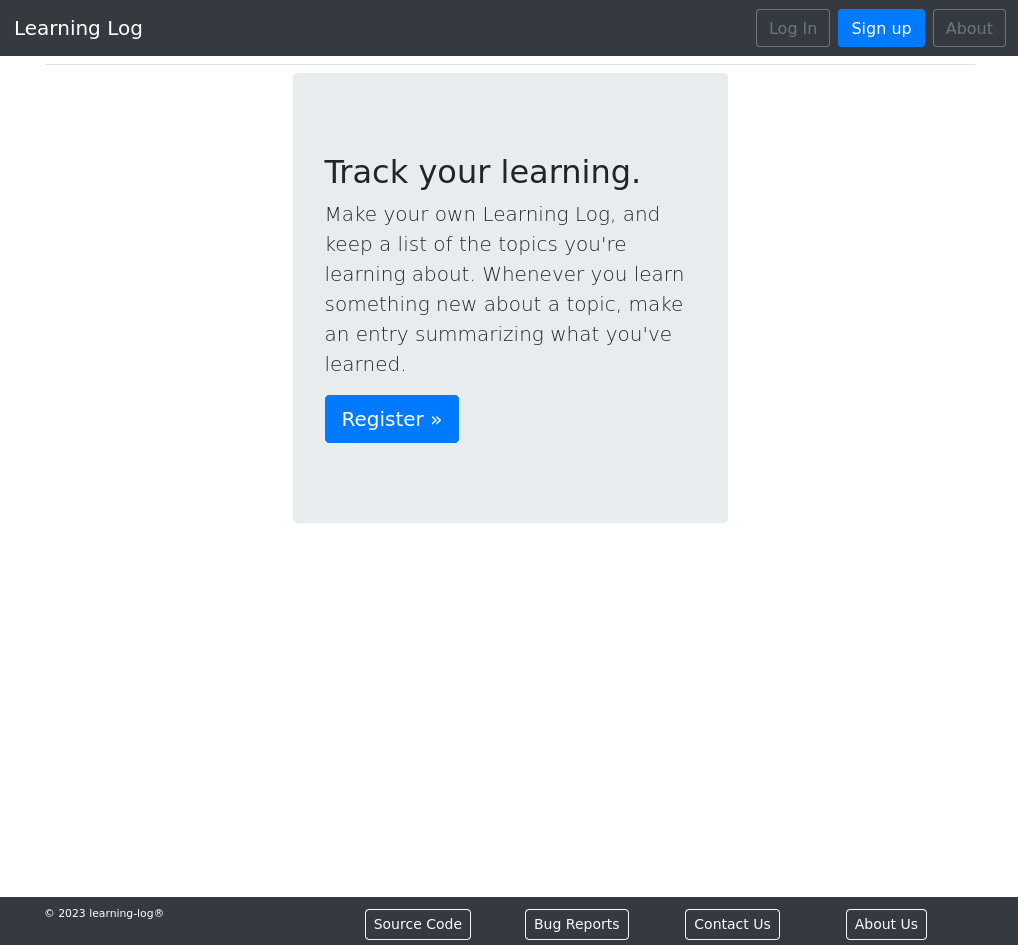
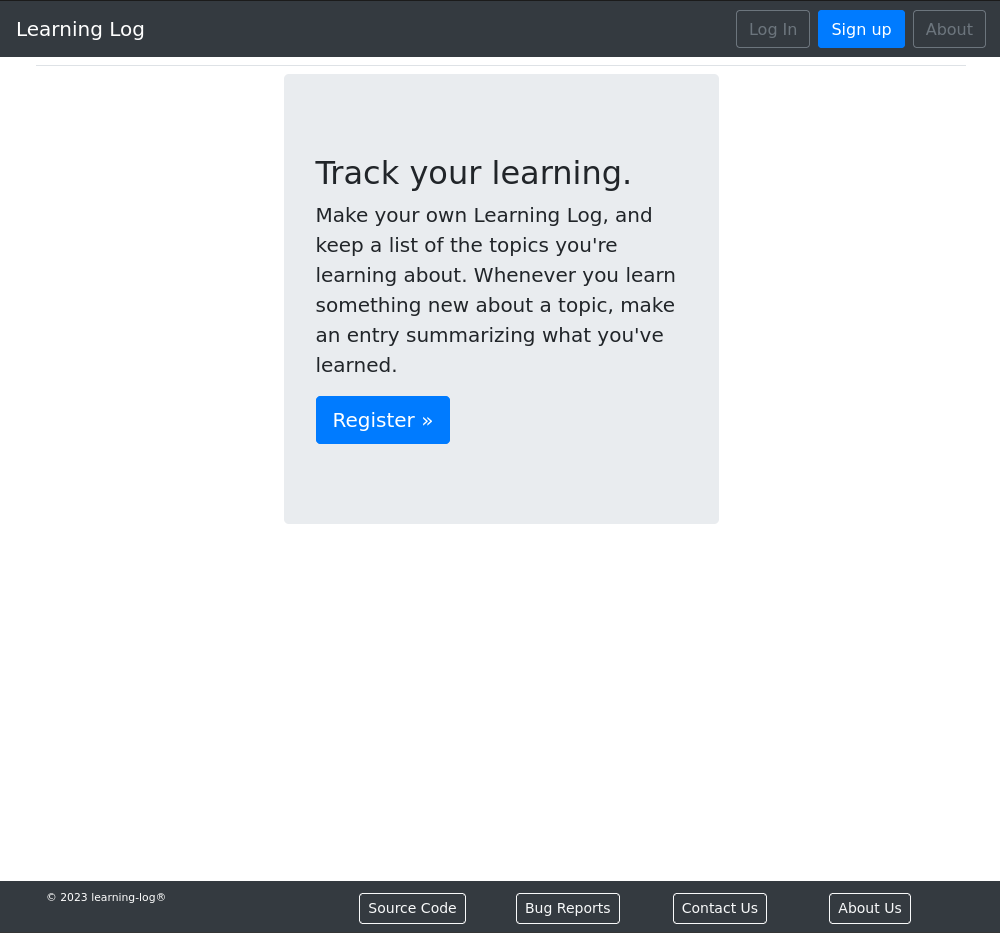
Update screenshots with footer

diff --git a/README.md b/README.md
@@ -111,6 +111,9 @@ TBD
 Home Page
 ![Home Page](images/learning_log_home.png)
 
+Profile Page
+![Profile Page](images/learning_log_profile.png)
+
 Topic List
 ![Topic List](images/learning_log_topics.png)
 
